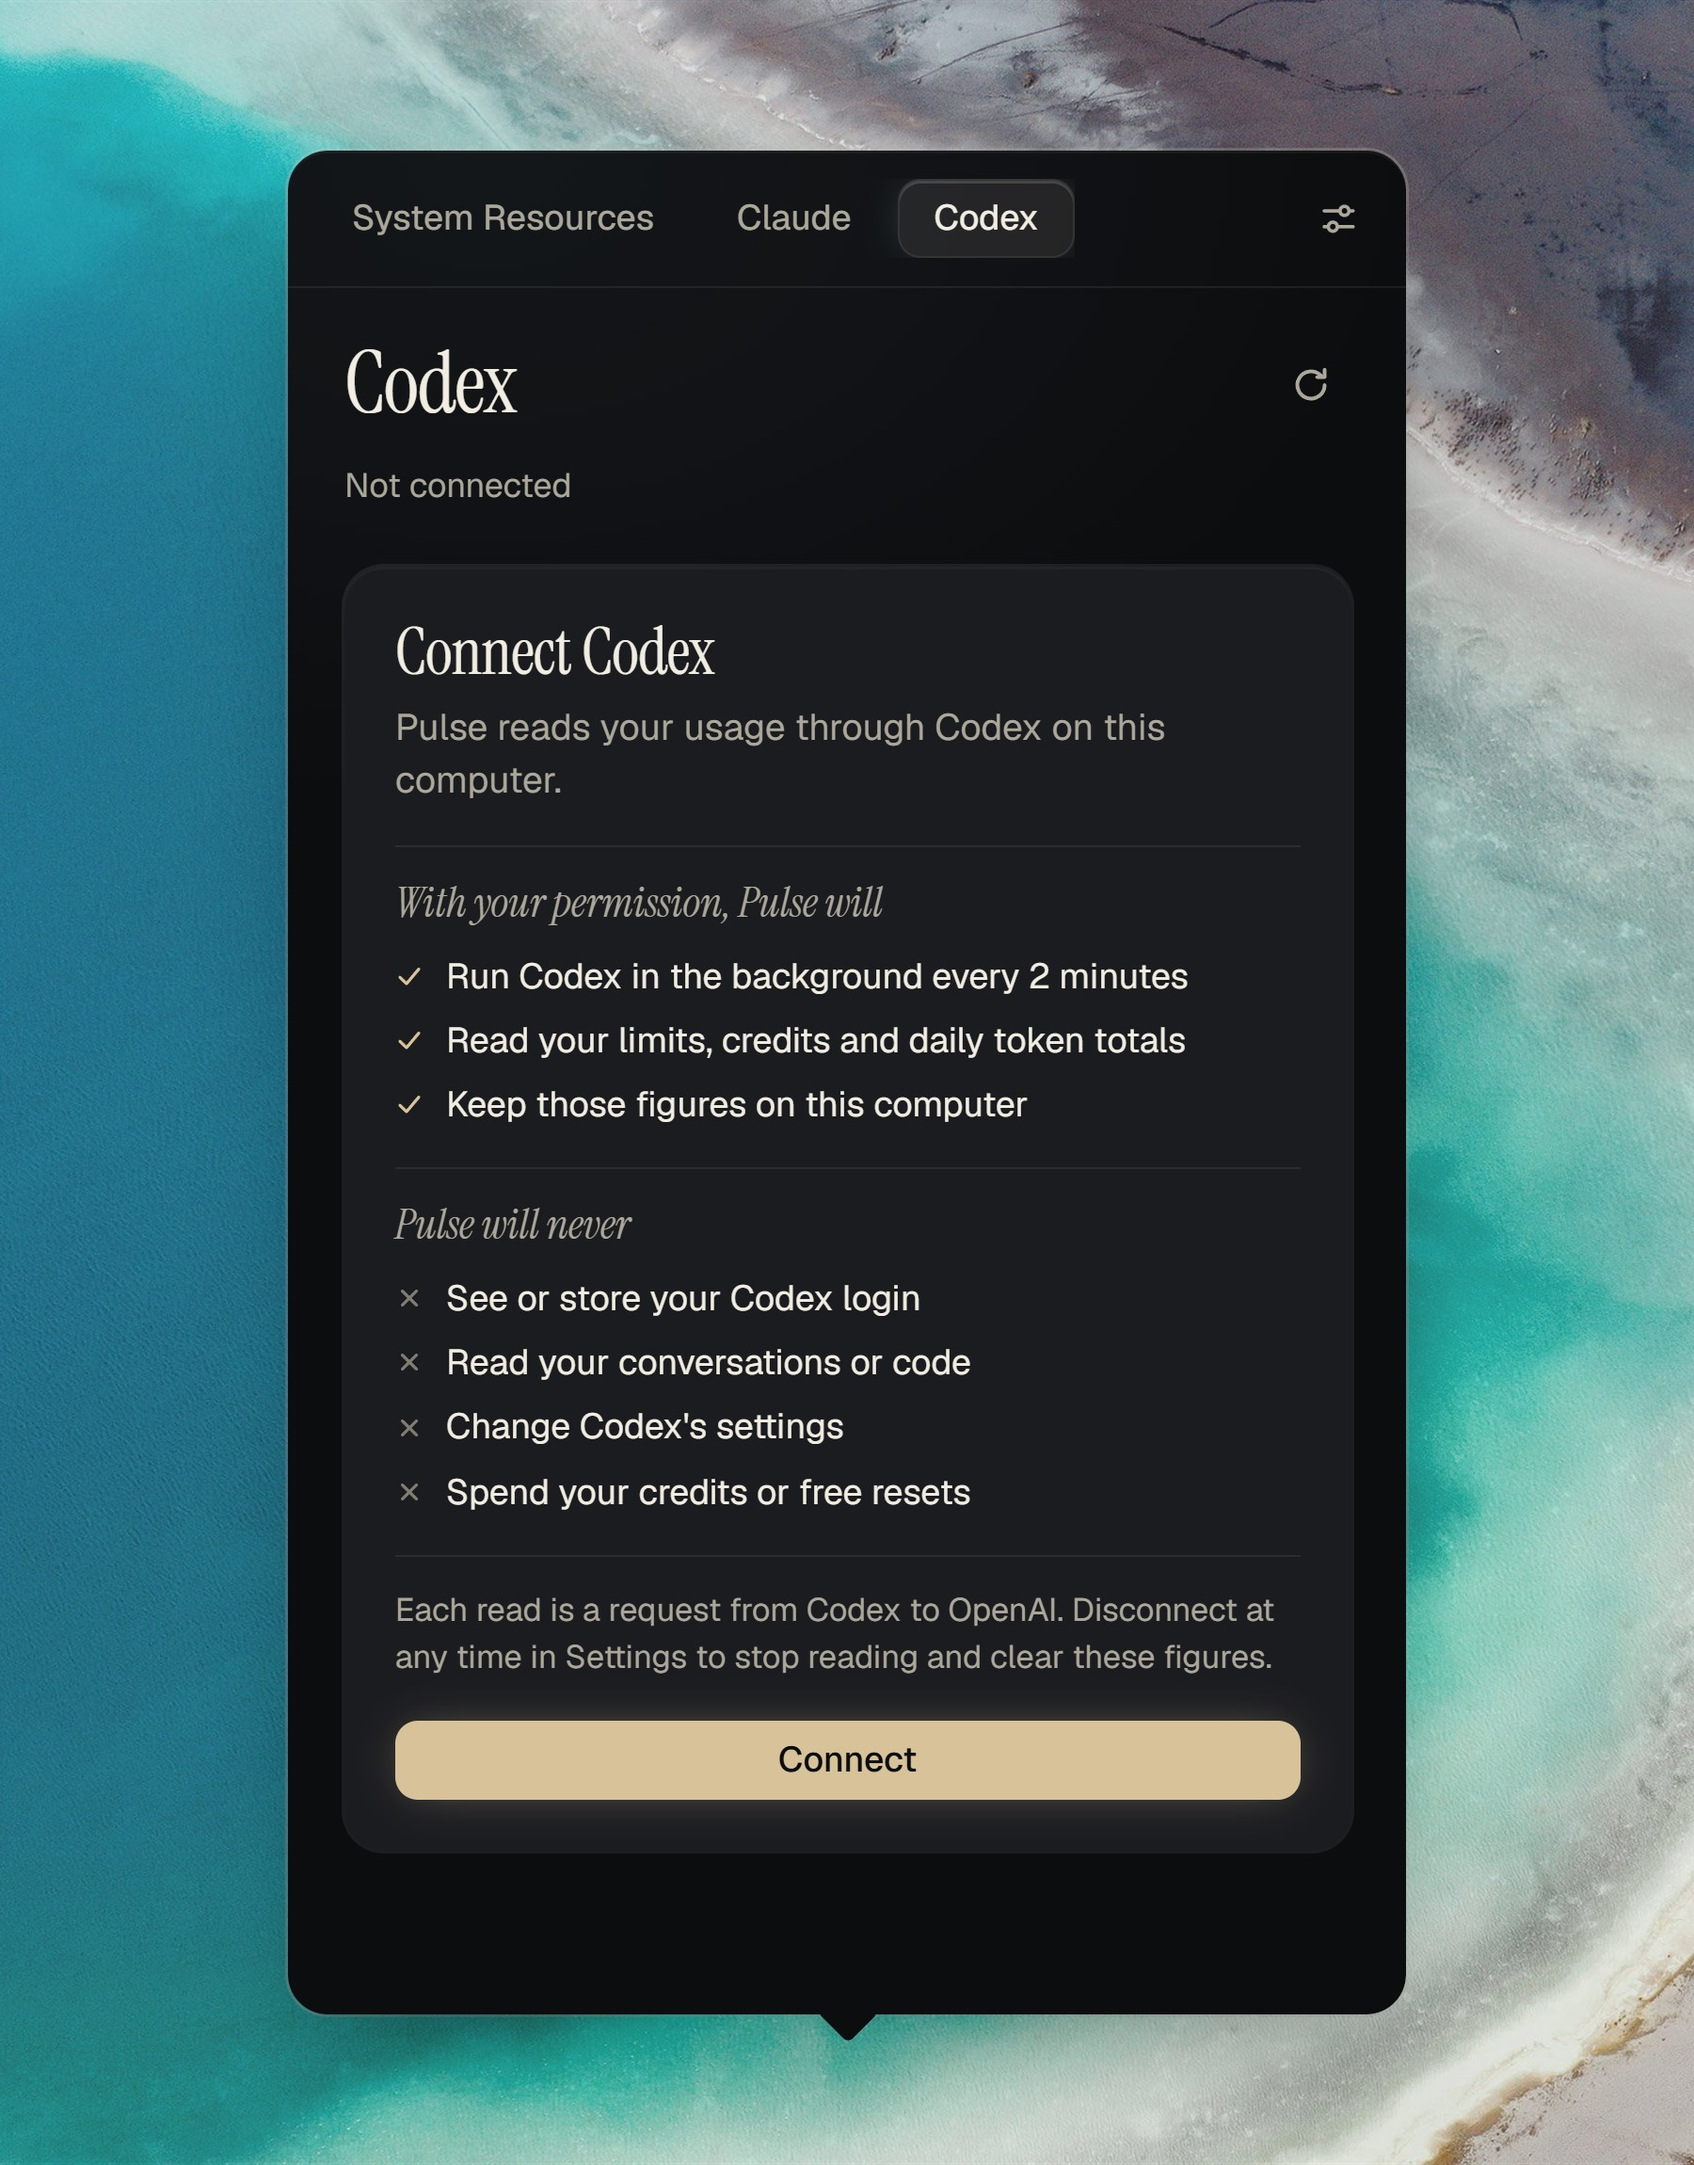
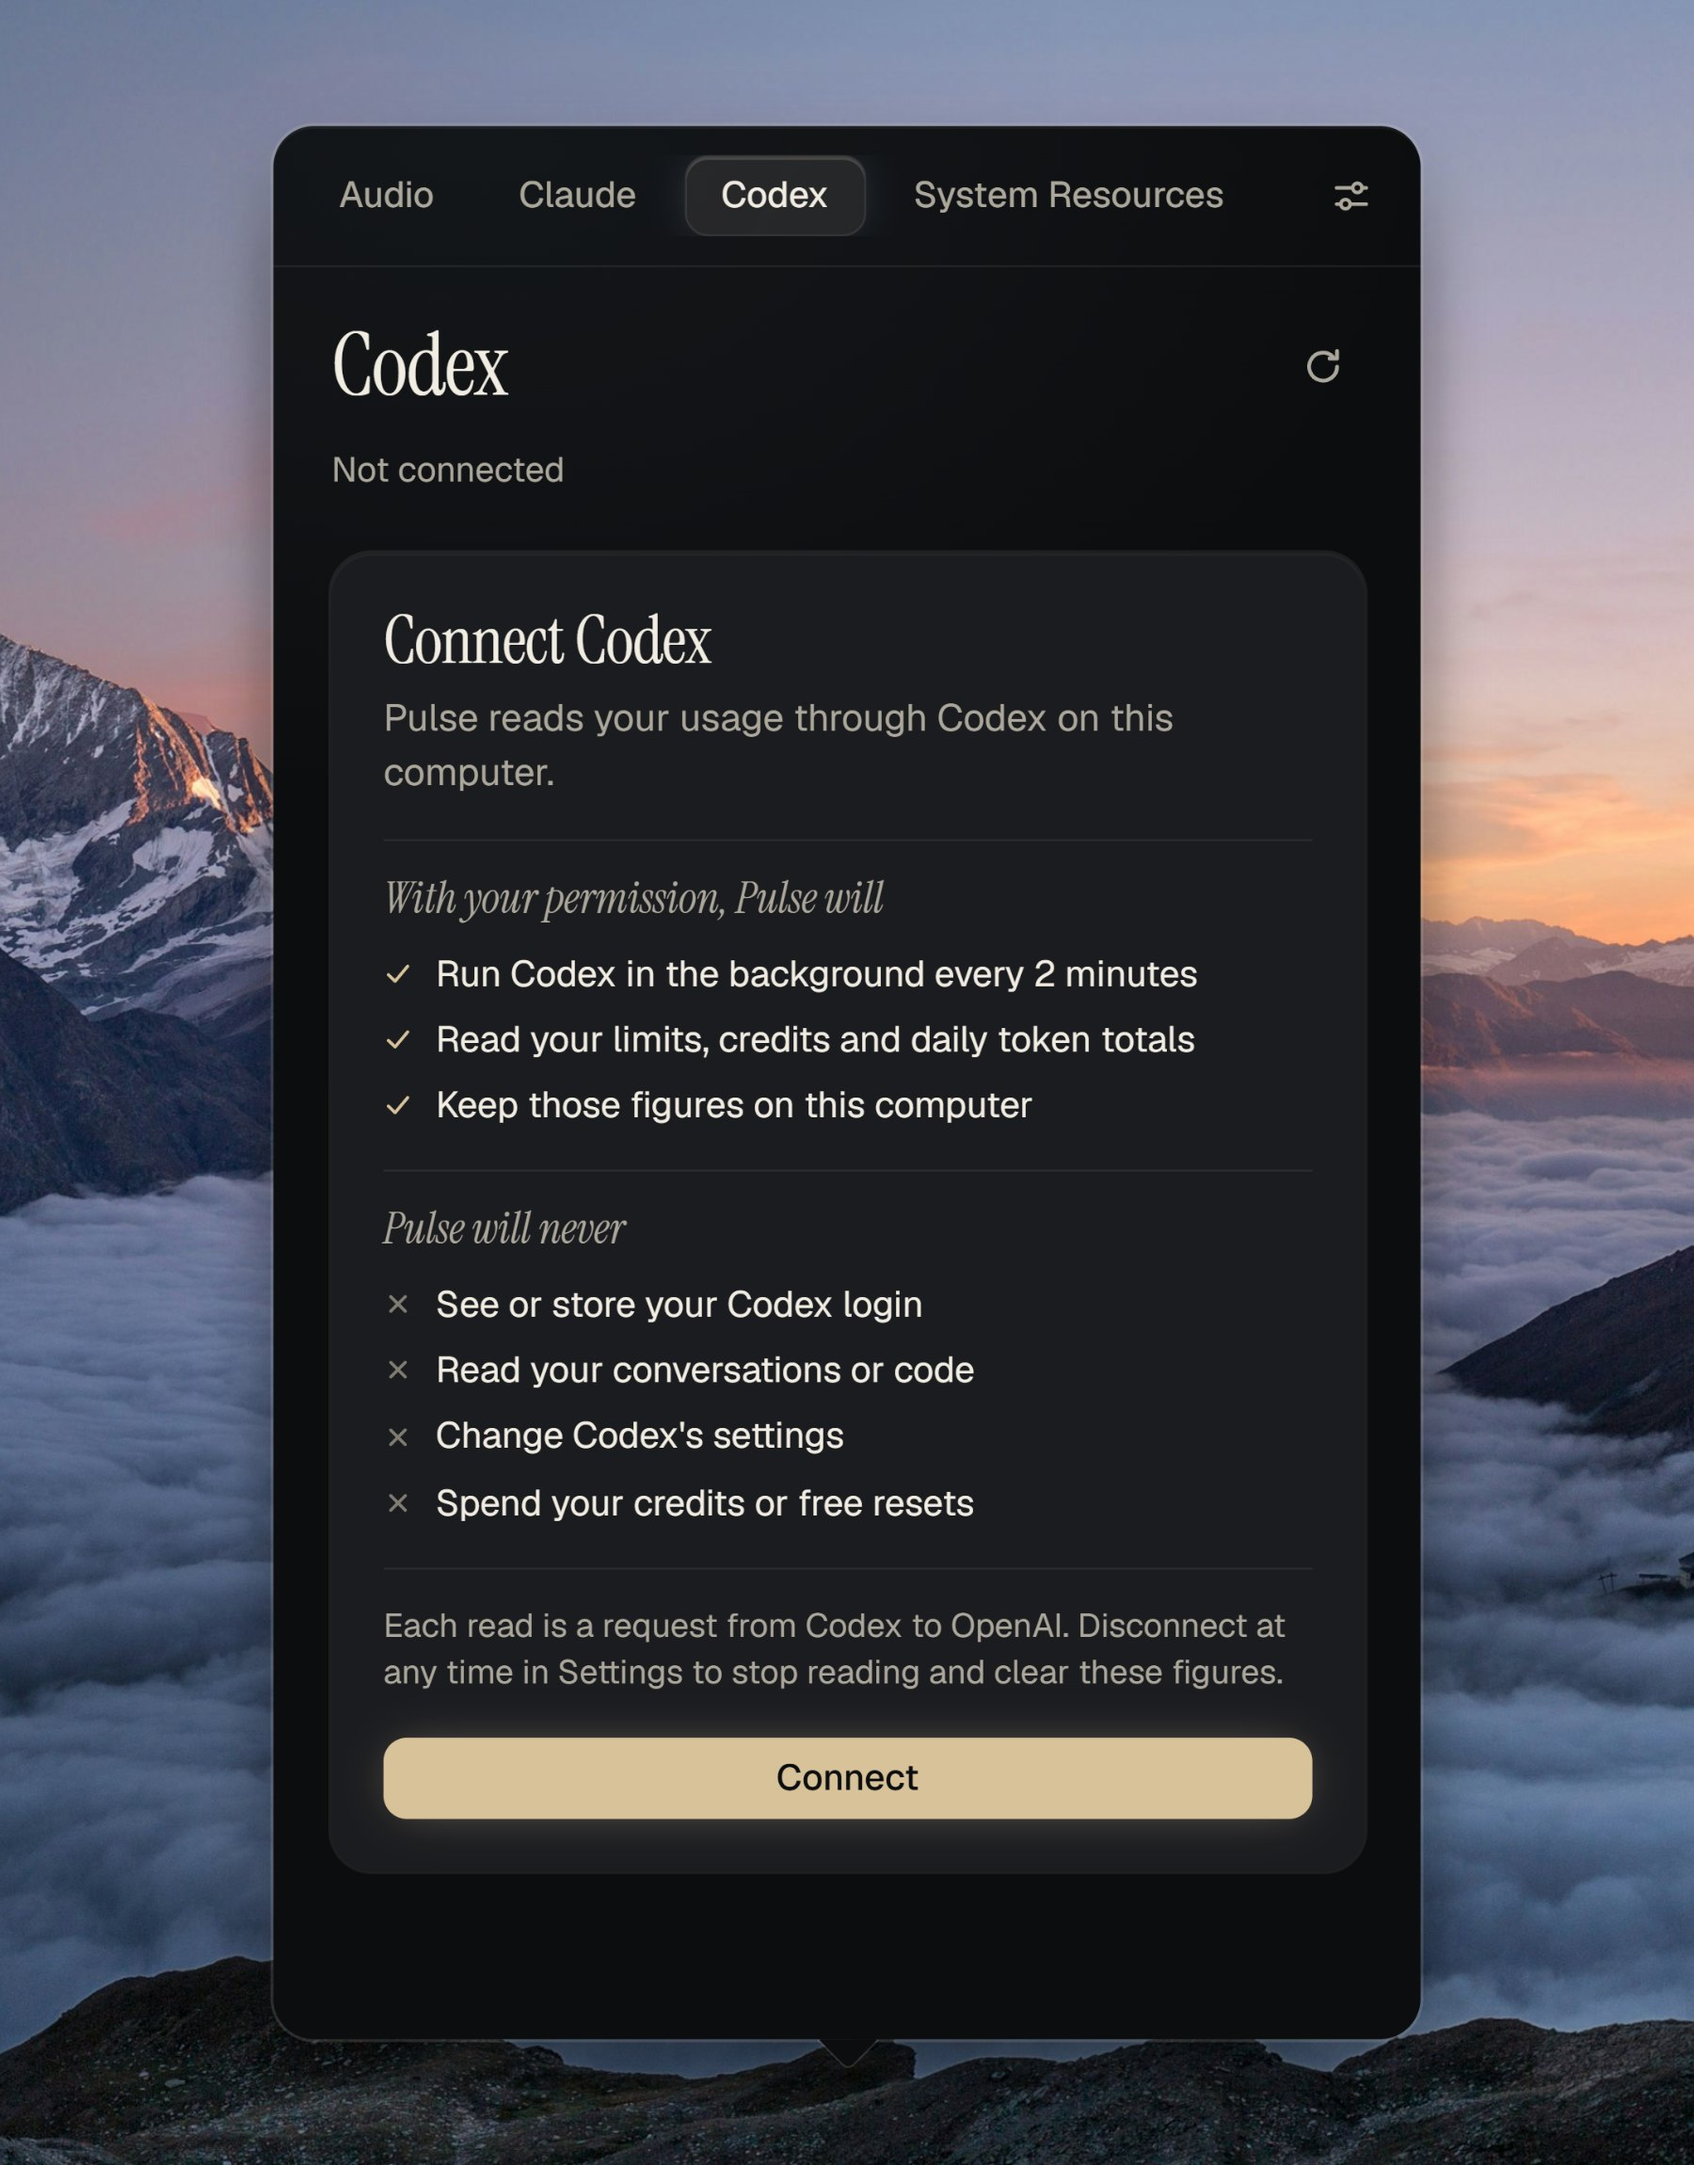
Update every screenshot, use the Audio tab in the website hero, and add a social preview image

diff --git a/docs/index.html b/docs/index.html
@@ -16,7 +16,7 @@
       property="og:description"
       content="Your Claude limits, your Codex limits and your computer, in one tray app."
     />
-    <meta property="og:image" content="https://k4rg1l.github.io/Pulse/screenshots/hero.jpg" />
+    <meta property="og:image" content="https://k4rg1l.github.io/Pulse/screenshots/social-preview.jpg" />
     <meta name="twitter:card" content="summary_large_image" />
     <meta name="theme-color" content="#0c0d0f" />
     <script type="application/ld+json">
@@ -60,10 +60,10 @@
           class="panel"
           src="screenshots/panel.png"
           width="1632"
-          height="2424"
-          alt="The Pulse panel showing a Codex weekly limit at 5 percent, on pace for 41 percent by reset."
+          height="2602"
+          alt="The Pulse Audio tab at 34 percent volume, with a green line following the music, the track playing, and each app's volume."
         />
-        <span class="tray-tile" aria-hidden="true">5</span>
+        <span class="tray-tile" aria-hidden="true">34</span>
       </div>
     </header>
 

diff --git a/docs/site.css b/docs/site.css
@@ -226,16 +226,21 @@ h2 {
 .anchored {
   position: relative;
   align-self: end;
-  width: clamp(20rem, 62svh, 33rem);
+  width: clamp(20rem, 52svh, 33rem);
   margin-right: calc(var(--edge) * -0.5);
   padding-bottom: 2.6rem;
   animation: rise 0.7s var(--ease-out) both;
 }
 
-/* The image's own margin holds the shadow, with the notch's tip 11.6% of its width
-   above the bottom edge. This leaves the tip just above the tray icon at any size. */
+/* The image's own margin holds the shadow, which fades out before the image's edge.
+   The notch's tip is 3.6% of its width above the bottom edge, so this leaves the tip
+   just above the tray icon at any size. */
 .panel {
-  margin-bottom: -11.3%;
+  margin-bottom: -3.3%;
+  mask-image:
+    linear-gradient(90deg, transparent, #000 4%, #000 96%, transparent),
+    linear-gradient(180deg, transparent, #000 2.6%, #000 98.6%, transparent);
+  mask-composite: intersect;
 }
 
 .tray-tile {

diff --git a/README.md b/README.md
@@ -4,7 +4,7 @@ Everything you care about, in one tray app.
 
 Pulse is a Windows tray app that shows your computer, your Claude limits, your Codex limits and your audio in one panel. Open it with a click or a shortcut. It's a free, open source alternative to CodexBar for Windows.
 
-![Pulse showing System Resources, Codex and Claude](docs/screenshots/hero.jpg)
+![Pulse showing System Resources, Audio and Claude](docs/screenshots/hero.jpg)
 
 ## Download
 
@@ -37,7 +37,9 @@ The pace chart shows a limit across its whole window, against a line for even us
 
 ### Audio
 
-Switch output and input devices, set the volume of each app, mute apps and the microphone, and control what is playing. Each app's line follows its own sound on Windows 11. Each app takes its colour from its icon, or from the album art while it plays music.
+Switch output and input devices, set the volume of each app, mute outputs, apps and the microphone, and control what is playing. Each app's line follows its own sound on Windows 11. Each app takes its colour from its icon, or from the album art while it plays music.
+
+<img src="docs/screenshots/audio.jpg" width="49%" alt="The Audio tab with a green line following the music, the track playing, and each app's volume" />
 
 ## Your data
 
